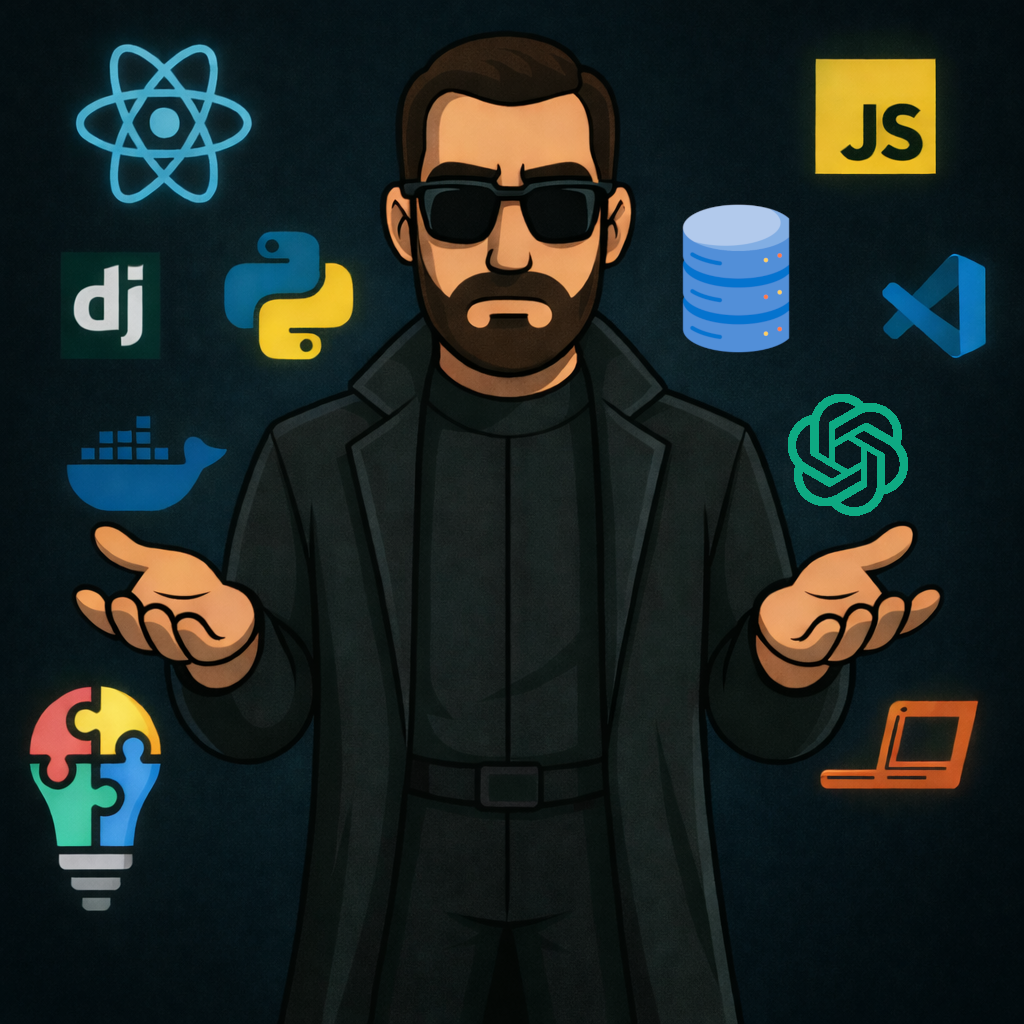
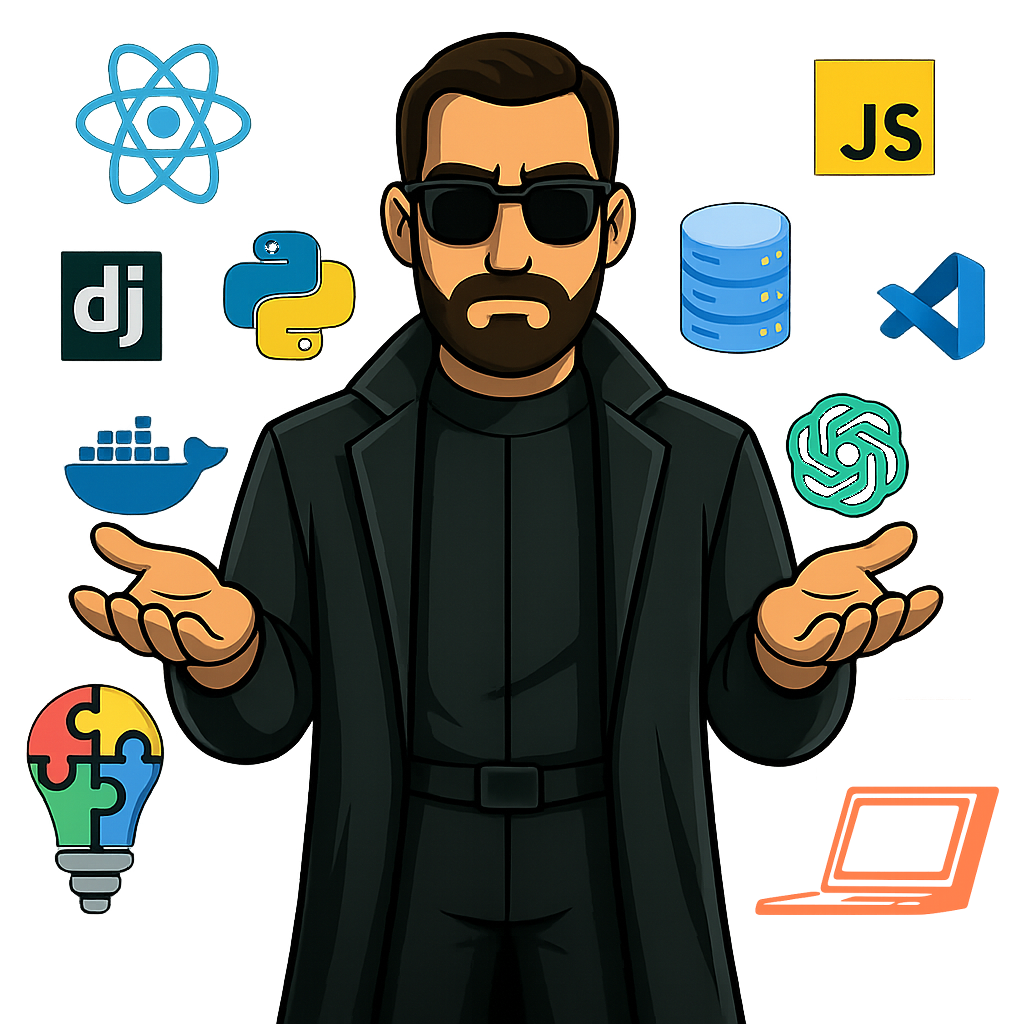
everything ready for deploy

diff --git a/src/components/Contact/Contact.tsx b/src/components/Contact/Contact.tsx
@@ -9,6 +9,7 @@ import codepen from '../../assets/codepen.png'
 import codingame from "../../assets/codingame.png"
 import { useI18n } from "../../i18n/I18nProvider";
 import { openCalendarPopup } from "../../utils/calendar";
+import { trackEvent } from "../../utils/analytics";
 
 
 export function Contact() {
@@ -23,18 +24,22 @@ export function Contact() {
       <div className="actions">
         <button
           className="button calendar"
-          onClick={(e) => { e.preventDefault(); openCalendarPopup(t.contacts.calendarLink); }}
+          onClick={(e) => {
+            e.preventDefault();
+            openCalendarPopup(t.contacts.calendarLink);
+            void trackEvent("contact_book_call_click", { label: "book_a_call", path: window.location.pathname });
+          }}
         >
           {t.contacts.bookACall}
         </button>
       </div>
       <p>{t.contacts.subtitle}</p>
       <div className="actions">
-        <a className="button button-secondary" href="mailto:a.falci@live.it">
+        <a className="button button-secondary" href="mailto:a.falci@live.it" onClick={() => void trackEvent("contact_click", { label: "email_primary", href: "mailto:a.falci@live.it" })}>
           <img src={emailIcon} alt="Email" />
           <span>a.falci@live.it</span>
         </a>
-        <a className="button button-secondary" href="tel:+393473927579">
+        <a className="button button-secondary" href="tel:+393473927579" onClick={() => void trackEvent("contact_click", { label: "phone_primary", href: "tel:+393473927579" })}>
           <img src={phoneIcon} alt="Phone" />
           <span>+39 347 3927579</span>
         </a>
@@ -42,19 +47,20 @@ export function Contact() {
 
       <div className="social-links">
 
-        <a href="https://web.telegram.org/#/im?p=@fangelo94" target="_blank" rel="noreferrer">
+        <a href="https://web.telegram.org/#/im?p=@fangelo94" target="_blank" rel="noreferrer" onClick={() => void trackEvent("contact_click", { label: "telegram", href: "https://web.telegram.org/#/im?p=@fangelo94" })}>
           <img src={telegram} alt="Telegram" />
         </a>
-        <a href="https://www.linkedin.com/in/angelo-falci/" target="_blank" rel="noreferrer">
+        <a href="https://www.linkedin.com/in/angelo-falci/" target="_blank" rel="noreferrer" onClick={() => void trackEvent("contact_click", { label: "linkedin", href: "https://www.linkedin.com/in/angelo-falci/" })}>
           <img src={linkedinIcon} alt="LinkedIn" />
         </a>
-        <a href="mailto:angelo.falci@ingpec.eu" target="_blank" rel="noreferrer">
+        <a href="mailto:angelo.falci@ingpec.eu" target="_blank" rel="noreferrer" onClick={() => void trackEvent("contact_click", { label: "pec", href: "mailto:angelo.falci@ingpec.eu" })}>
           <img src={pecIcon} alt="PEC" />
         </a>
         <a
           href="https://github.com/FAngelo94"
           target="_blank"
           rel="noreferrer"
+          onClick={() => void trackEvent("contact_click", { label: "github", href: "https://github.com/FAngelo94" })}
         >
           <img src={githubIcon} alt="GitHub" />
         </a>
@@ -62,6 +68,7 @@ export function Contact() {
           href="https://codepen.io/FAngelo94/"
           target="_blank"
           rel="noreferrer"
+          onClick={() => void trackEvent("contact_click", { label: "codepen", href: "https://codepen.io/FAngelo94/" })}
         >
           <img src={codepen} alt="Codepen" />
         </a>
@@ -70,6 +77,7 @@ export function Contact() {
           href="https://www.codingame.com/profile/431b0c5f5e61df133a64b701315f977d6866633"
           target="_blank"
           rel="noreferrer"
+          onClick={() => void trackEvent("contact_click", { label: "codingame", href: "https://www.codingame.com/profile/431b0c5f5e61df133a64b701315f977d6866633" })}
         >
           <img src={codingame} alt="Codingame" />
         </a>

diff --git a/src/components/Header/Header.tsx b/src/components/Header/Header.tsx
@@ -4,33 +4,43 @@ import { useState } from 'react'
 import { useI18n } from "../../i18n/I18nProvider"
 import logo from "../../assets/logo.png";
 import { generateCV } from '../../utils/pdfGenerator'
+import { trackEvent } from '../../utils/analytics'
 
 export function Header() {
   const { t, locale, setLocale } = useI18n();
   const [isActive, setActive] = useState(false)
 
-  function toggleTheme() {
+  const toggleTheme = () => {
     let html = document.getElementsByTagName('html')[0]
-    html.classList.toggle('light')
+    const isLight = html.classList.toggle('light')
+    void trackEvent('header_toggle_theme', { mode: isLight ? 'light' : 'dark' })
   }
 
-  function closeMenu() {
+  const closeMenu = () => {
     setActive(false)
   }
 
-  function handleGenerateCV() {
+  const handleGenerateCV = () => {
     try {
       generateCV();
       closeMenu(); // Close menu after generating CV
+      void trackEvent('header_generate_cv', { source: 'menu' })
     } catch (error) {
       console.error('Error generating CV:', error);
       alert('Error generating CV. Please try again.');
     }
   }
 
+  const changeLanguage = () => {
+    const newLocale = locale === 'en' ? 'it' : 'en';
+    setLocale(newLocale);
+    closeMenu();
+    void trackEvent('header_change_language', { to: newLocale });
+  }
+
   return (
     <Container className="header-fixed">
-        <HashLink smooth to="/#home" className="logo">
+        <HashLink smooth to="/#home" className="logo" onClick={() => void trackEvent('header_logo_click', { to: '/#home' })}>
           <img src={logo} alt="logo" />
         </HashLink>
 
@@ -46,25 +56,25 @@ export function Header() {
 
 
         <nav className={isActive ? 'active' : ''}>
-          <NavHashLink smooth to="/#home" onClick={closeMenu}>
+          <NavHashLink smooth to="/#home" onClick={() => { closeMenu(); void trackEvent('header_nav_click', { item: 'home' }); }}>
             {t.header.home}
           </NavHashLink>
-          <NavHashLink smooth to="/#prices" onClick={closeMenu}>
+          <NavHashLink smooth to="/#prices" onClick={() => { closeMenu(); void trackEvent('header_nav_click', { item: 'prices' }); }}>
             {t.header.prices}
           </NavHashLink>
-          <NavHashLink smooth to="/#contacts" onClick={closeMenu}>
+          <NavHashLink smooth to="/#contacts" onClick={() => { closeMenu(); void trackEvent('header_nav_click', { item: 'contacts' }); }}>
             {t.header.contacts}
           </NavHashLink>
-          <NavHashLink smooth to="/#whoiam" onClick={closeMenu}>
+          <NavHashLink smooth to="/#whoiam" onClick={() => { closeMenu(); void trackEvent('header_nav_click', { item: 'whoiam' }); }}>
             {t.header.whoiam}
           </NavHashLink>
-          <NavHashLink smooth to="/#career" onClick={closeMenu}>
+          <NavHashLink smooth to="/#career" onClick={() => { closeMenu(); void trackEvent('header_nav_click', { item: 'career' }); }}>
             {t.header.experience}
           </NavHashLink>
-          <button className="lang-switch" onClick={() => setLocale(locale === 'en' ? 'it' : 'en')}>
+          <button className="lang-switch" onClick={changeLanguage}>
             {locale === 'en' ? 'IT' : 'EN'}
           </button>
-          <button onClick={handleGenerateCV} className="button button-pdf">
+          <button onClick={() => { handleGenerateCV(); }} className="button button-pdf">
             {t.header.generatePdf}
           </button>
         </nav>

diff --git a/src/components/Card/TileCard.tsx b/src/components/Card/TileCard.tsx
@@ -1,7 +1,9 @@
 import React from "react";
 import { TileCard as TileCardContainer } from "./styles";
+import { trackEvent } from "../../utils/analytics";
 
 interface TileCardProps {
+  analyticsLabel: string; // label for analytics tracking
   headerIconSrc: string;
   headerRight?: React.ReactNode; // icons or company link
   title: React.ReactNode; // allow rich title content
@@ -14,7 +16,24 @@ interface TileCardProps {
   onSecondaryCtaClick?: () => void; // handler for secondary CTA
 }
 
-export function TileCard({ headerIconSrc, headerRight, title, body, footerList, onClickBody, ctaLabel, onCtaClick, secondaryCtaLabel, onSecondaryCtaClick }: TileCardProps) {
+export function TileCard({analyticsLabel, headerIconSrc, headerRight, title, body, footerList, onClickBody, ctaLabel, onCtaClick, secondaryCtaLabel, onSecondaryCtaClick }: TileCardProps) {
+  const handleBodyClick = () => {
+    console.log('TileCard body clicked', analyticsLabel);
+    try { 
+      if (onClickBody) onClickBody();
+    } finally {
+      void trackEvent("card_body_click", { card: analyticsLabel });
+    }
+  };
+
+  const handleCta = (cta?: string, cb?: (() => void) | undefined) => {
+    try {
+      if (cb) cb();
+    } finally {
+      void trackEvent("card_cta_click", { card: analyticsLabel, cta: cta || null });
+    }
+  };
+
   return (
     <TileCardContainer className="tile-card">
       <header>
@@ -23,7 +42,7 @@ export function TileCard({ headerIconSrc, headerRight, title, body, footerList, 
           {headerRight}
         </div>
       </header>
-      <div className="body" onClick={onClickBody}>
+      <div className="body" onClick={handleBodyClick}>
         <h3>{title}</h3>
         {body}
       </div>
@@ -36,12 +55,12 @@ export function TileCard({ headerIconSrc, headerRight, title, body, footerList, 
         {(ctaLabel || secondaryCtaLabel) && (
           <div className="card-actions">
             {ctaLabel && (
-              <button className="card-cta" type="button" onClick={onCtaClick}>
+              <button className="card-cta" type="button" onClick={() => handleCta(ctaLabel, onCtaClick)}>
                 {ctaLabel}
               </button>
             )}
             {secondaryCtaLabel && (
-              <button className="card-cta secondary" type="button" onClick={onSecondaryCtaClick}>
+              <button className="card-cta secondary" type="button" onClick={() => handleCta(secondaryCtaLabel, onSecondaryCtaClick)}>
                 {secondaryCtaLabel}
               </button>
             )}

diff --git a/src/components/Footer/Footer.tsx b/src/components/Footer/Footer.tsx
@@ -4,6 +4,7 @@ import reactIcon from '../../assets/react-icon.svg'
 import logo from "../../assets/logo.png";
 import { useI18n } from "../../i18n/I18nProvider"
 import { Link } from 'react-router-dom'
+import { trackEvent } from '../../utils/analytics'
 
 const version = process.env.REACT_APP_VERSION || "dev";
 
@@ -11,7 +12,7 @@ export function Footer() {
   const { t } = useI18n();
   return (
     <Container className="footer">
-      <a href="/" className="logo">
+      <a href="/" className="logo" onClick={() => void trackEvent('footer_logo_click', { to: '/' })}>
         <img src={logo} alt="logo"/>
       </a>
       <div>
@@ -23,9 +24,9 @@ export function Footer() {
       </div>
 
       <div className="policy-links">
-        <Link to="/privacy-policy">Privacy Policy</Link>
-        <span style={{ margin: '0 8px' }}>•</span>
-        <Link to="/cookie-policy">Cookie Policy</Link>
+        <Link to="/privacy-policy" onClick={() => void trackEvent('footer_policy_click', { policy: 'privacy' })}>Privacy Policy</Link>
+        <span>•</span>
+        <Link to="/cookie-policy" onClick={() => void trackEvent('footer_policy_click', { policy: 'cookie' })}>Cookie Policy</Link>
       </div>
     </Container>
   )

diff --git a/src/components/Home/Home.tsx b/src/components/Home/Home.tsx
@@ -3,6 +3,7 @@ import ScrollAnimation from "react-animate-on-scroll";
 import softwareEngineer from "../../assets/software-engineer.png";
 import { useI18n } from "../../i18n/I18nProvider"
 import { openCalendarPopup } from "../../utils/calendar"
+import { trackEvent } from "../../utils/analytics"
 
 export function Home() {
   const { t } = useI18n();
@@ -59,13 +60,19 @@ export function Home() {
       <div className="home-actions">
         <button
           className="button"
-          onClick={() => document.getElementById('prices')?.scrollIntoView({ behavior: 'smooth' })}
+          onClick={() => {
+            document.getElementById('prices')?.scrollIntoView({ behavior: 'smooth' });
+            void trackEvent('home_cta_click', { label: 'look_plans' });
+          }}
         >
           {t.home.ctas.lookPlans}
         </button>
         <button
           className="button button-secondary"
-          onClick={() => openCalendarPopup(t.contacts.calendarLink)}
+          onClick={() => {
+            openCalendarPopup(t.contacts.calendarLink);
+            void trackEvent('home_cta_click', { label: 'speak_goals' });
+          }}
         >
           {t.home.ctas.speakGoals}
         </button>

diff --git a/src/utils/analytics.ts b/src/utils/analytics.ts
@@ -1,0 +1,30 @@
+import { initAnalytics } from "../firebase";
+
+type Params = Record<string, any> | undefined;
+
+export async function trackEvent(eventName: string, params?: Params) {
+  try {
+    // If running on localhost, just log to console for local testing
+    if (typeof window !== "undefined") {
+      const host = window.location.hostname;
+      if (host === "localhost" || host === "127.0.0.1") {
+        // eslint-disable-next-line no-console
+        console.log("trackEvent (localhost):", eventName, params);
+        return;
+      }
+    }
+
+    const analytics = await initAnalytics();
+    if (!analytics) return;
+    // dynamic import of logEvent to avoid bundling analytics unless used
+    const mod = await import(/* webpackChunkName: "firebase-analytics-log" */ "firebase/analytics");
+    if (mod && typeof mod.logEvent === "function") {
+      mod.logEvent(analytics, eventName, params);
+    }
+  } catch (e) {
+    // swallow errors to avoid breaking UI when analytics unavailable
+    // console.debug("trackEvent error", e);
+  }
+}
+
+export default trackEvent;

diff --git a/src/components/Career/Career.tsx b/src/components/Career/Career.tsx
@@ -44,6 +44,7 @@ const CareerItems = ({ items }: { items: ICareerItem[] }) => {
       {items.map((item, index) => (
         <ScrollAnimation animateIn="flipInX" key={index}>
           <TileCard
+            analyticsLabel={item.title}
             headerIconSrc={item.type === "job" ? suitcase : bachelor}
             headerRight={item.type === "job" && item.link && item.company ? (
               <a href={item.link}>{item.company}</a>

diff --git a/src/components/Prices/Prices.tsx b/src/components/Prices/Prices.tsx
@@ -51,6 +51,7 @@ const Projects = ({ prices: plans, ctas, contacts, setShowCard }: { prices: IPri
       {plans.map((p, index) => (
         <ScrollAnimation animateIn="flipInX" key={index}>
           <TileCard
+            analyticsLabel={p.title}
             headerIconSrc={p.icon}
             headerRight={<span className="type">
               {p.type}

diff --git a/src/components/Portfolio/Portfolio.tsx b/src/components/Portfolio/Portfolio.tsx
@@ -54,6 +54,7 @@ const Projects = ({ projects, setShowCard }: { projects: IProject[], setShowCard
       {projects.map((p, index) => (
         <ScrollAnimation animateIn="flipInX" key={index}>
           <TileCard
+            analyticsLabel={p.title}
             headerIconSrc={project}
             headerRight={p.links ? (
               <>

diff --git a/src/components/Footer/styles.ts b/src/components/Footer/styles.ts
@@ -9,6 +9,9 @@ export const Container = styled.footer`
   align-items: center;
   justify-content: space-between;
 
+  .logo {
+    width: 270px;
+  }
 
   .logo img{
     height: 55px;
@@ -54,7 +57,6 @@ export const Container = styled.footer`
 
     img,span{
       font-size: 3rem;
-      width: 3rem;
     }
   }
 

diff --git a/src/components/Card/Card.tsx b/src/components/Card/Card.tsx
@@ -82,7 +82,7 @@ export function Card({ title, type, text, skills, handleClose }: ICard) {
           )}
           <ul className="tech-list">
             {skills.map((skill, index) => (
-              <li>{skill}</li>
+              <li key={index}>{skill}</li>
             ))}
           </ul>
         </div>

diff --git a/src/components/Header/styles.ts b/src/components/Header/styles.ts
@@ -70,6 +70,14 @@ export const Container = styled.header`
 
   }
 
+  /* when light theme is active, make the lang-switch text dark to match other menu items */
+  html.light & {
+    .lang-switch {
+      color: #121212;
+    }
+  }
+
+
   .menu-container{
     cursor: pointer;
     padding: 0.6rem 0;
